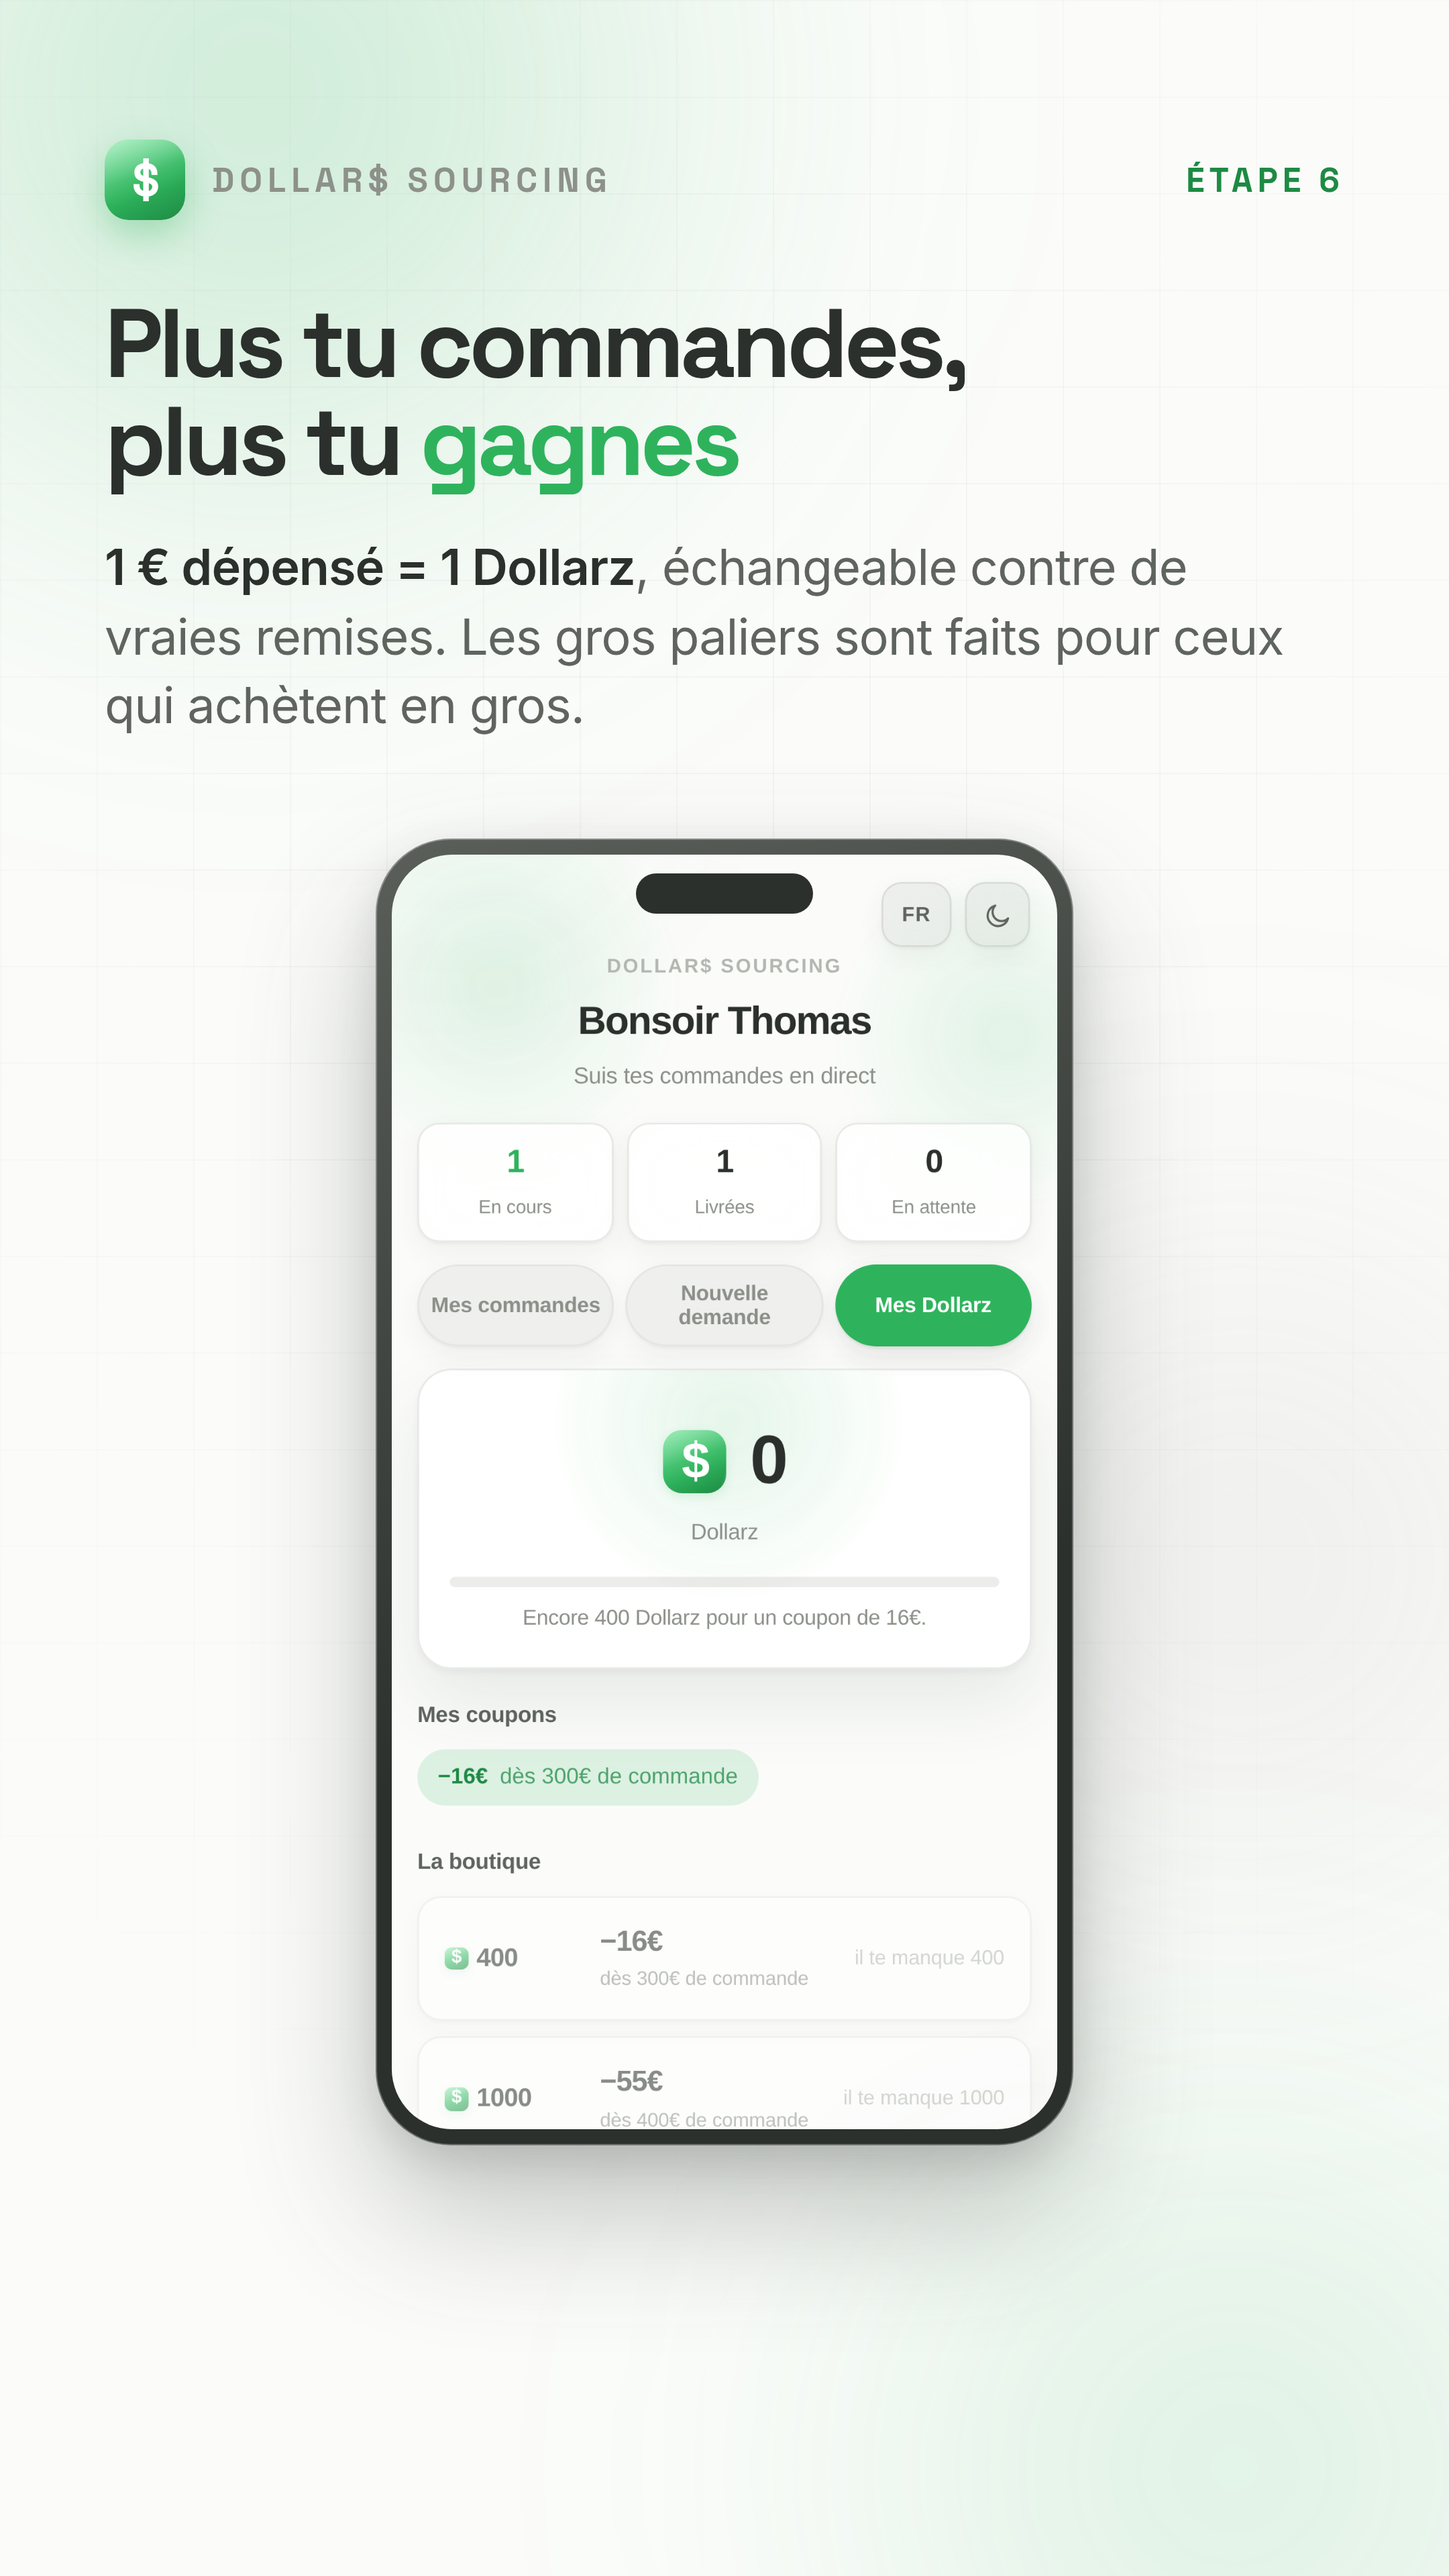
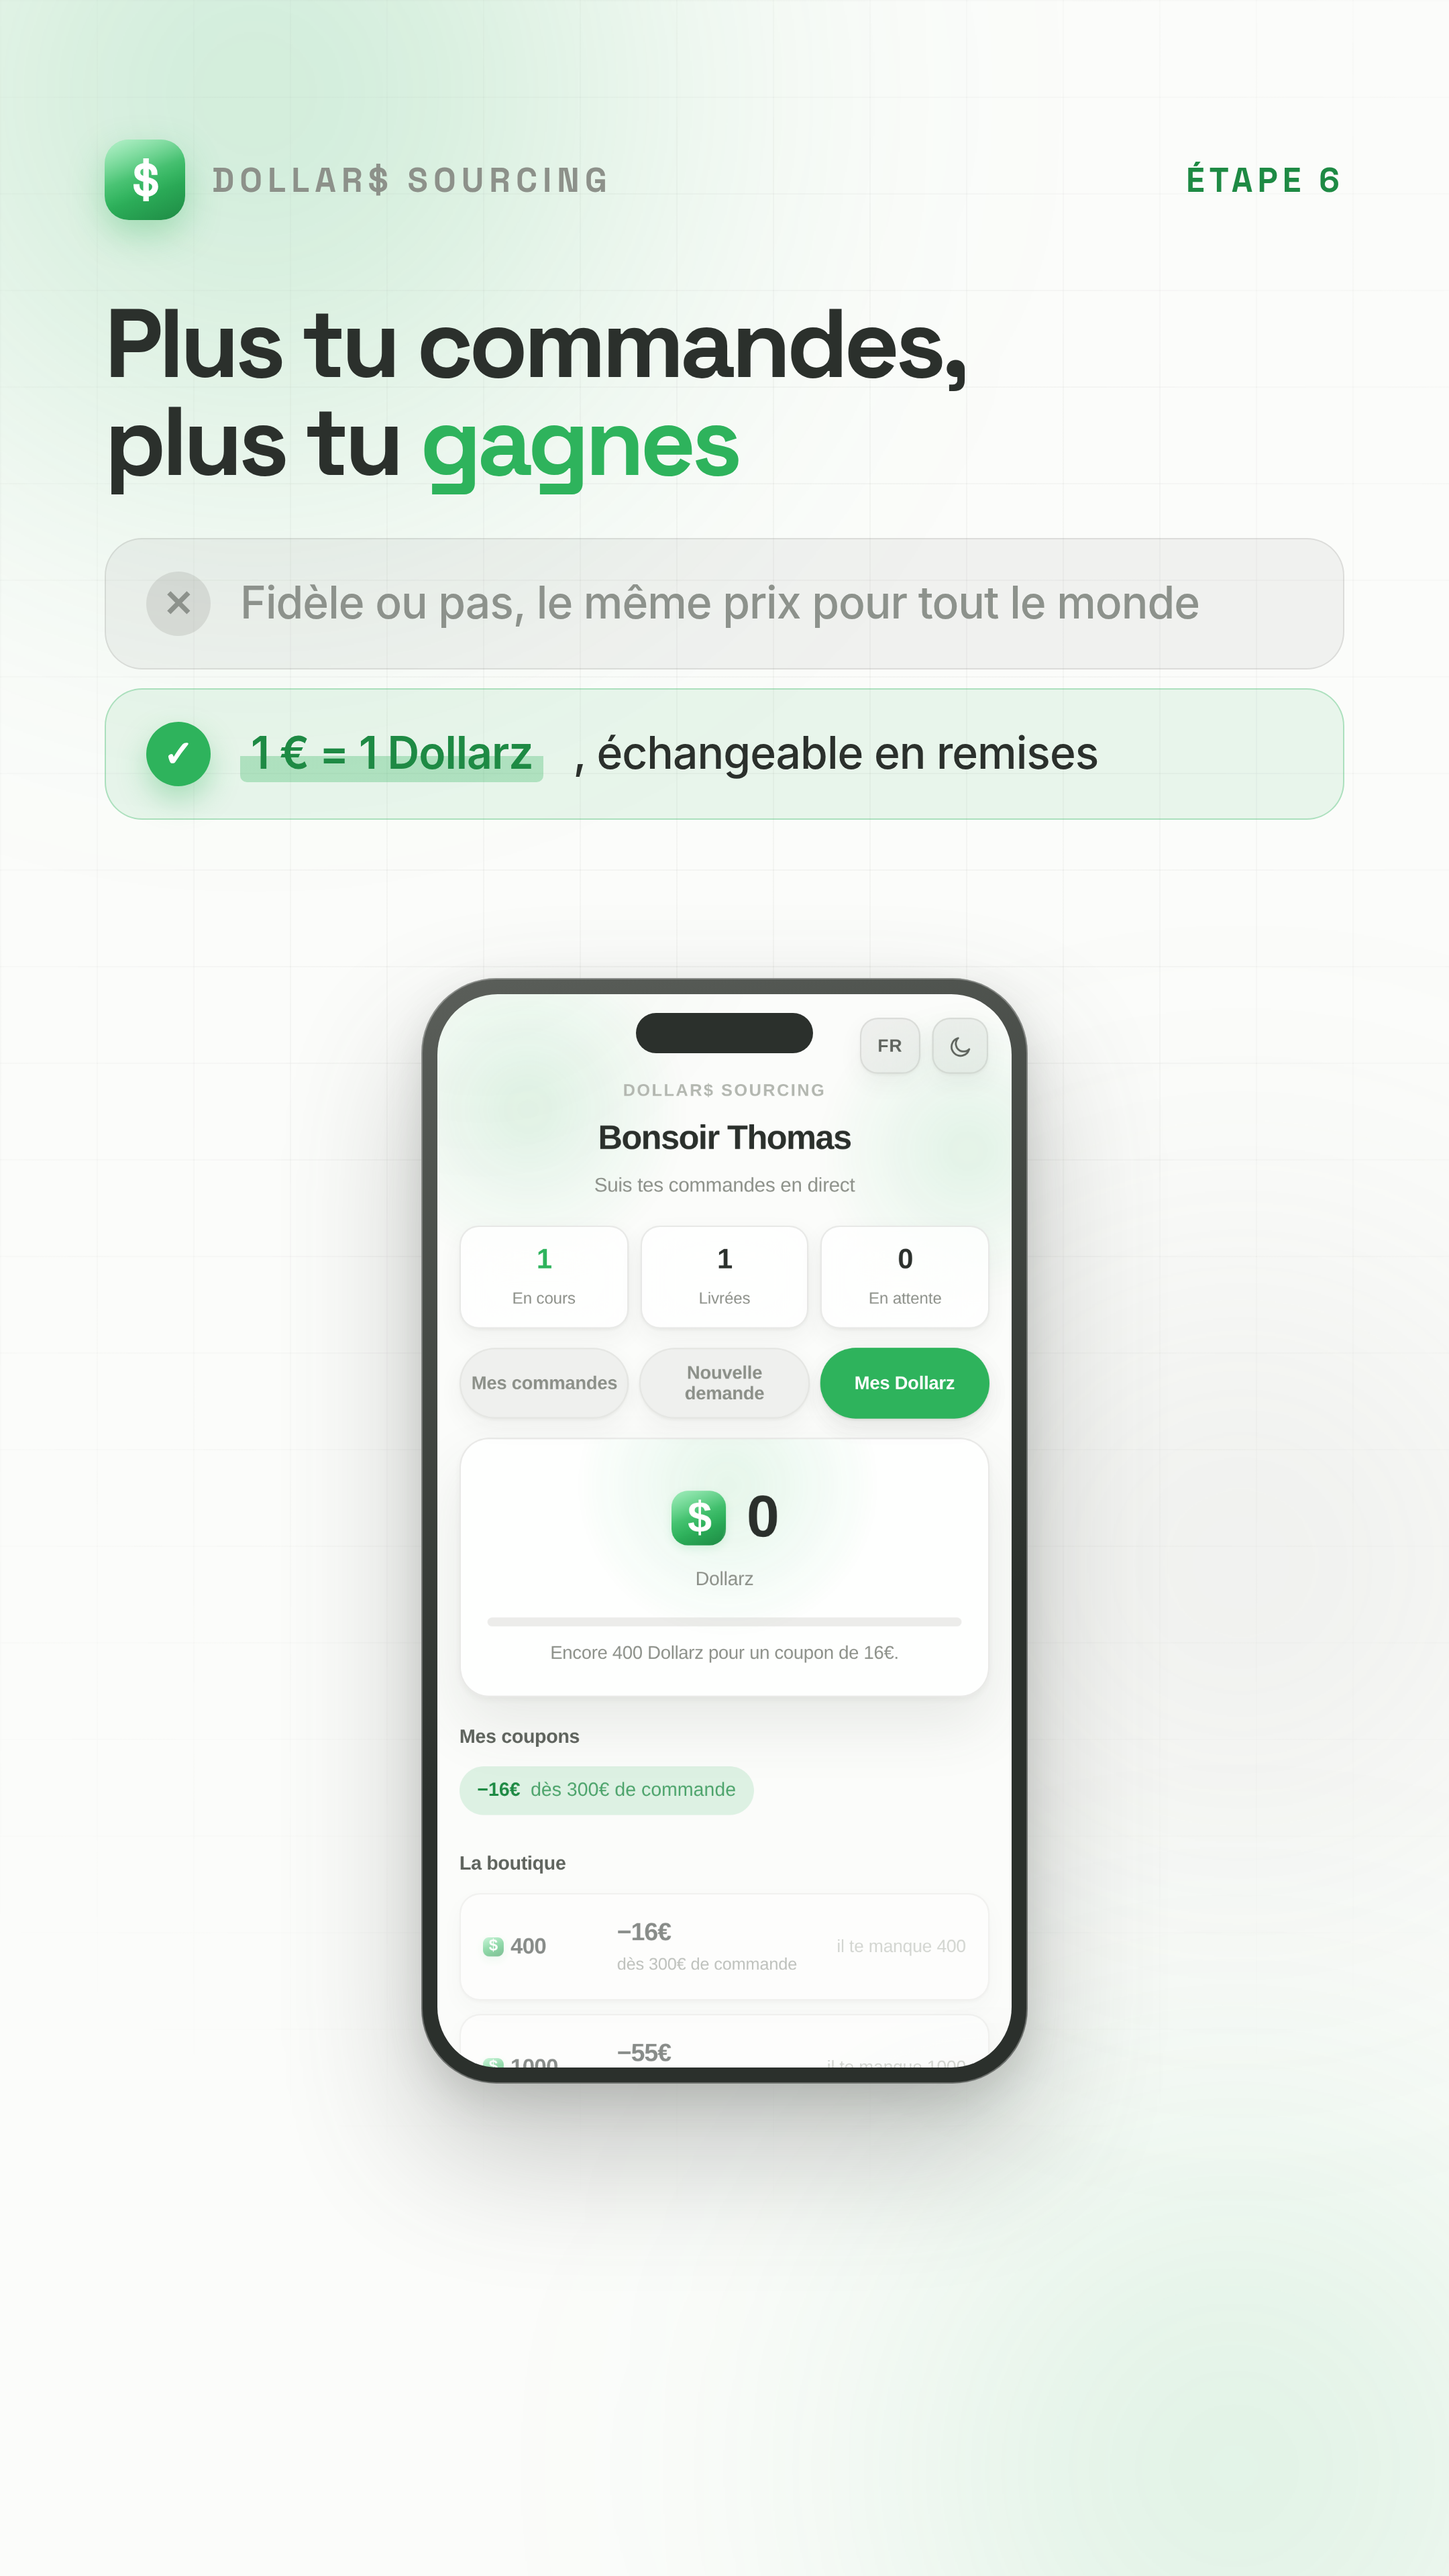
Le carrousel oppose, au lieu de décrire
Refonte des huit affiches sur une demande simple : que chaque image porte
l'avant/après, et que ce qui compte saute aux yeux.

Le paragraphe d'explication disparaît de chaque affiche, remplacé par deux
lignes opposées — sans lui (gris, croix), avec lui (vert, coche). Une
phrase de prose demande trois secondes qu'on n'a pas sur un fil social ;
deux lignes opposées se lisent en une demie.

Trois règles tiennent le module :

- Le « sans » ne porte aucun vert. Le vert est la marque : s'il apparaît
  des deux côtés, l'opposition ne dit plus rien.
- Le détail qui compte est surligné, pas seulement mis en gras. Sur un
  téléphone tenu à bout de bras, un gras ne se distingue plus d'un texte
  normal ; le fond vert au trait se voit avant d'être lu.
- Un seul gros chiffre par affiche : 580 € sur le prix, x3 sur la marge.
  Deux gros chiffres sur la même image s'annulent.

Les affiches à capture ont un téléphone d'un cran plus petit
(.phone.mid) : l'opposition prend la place du paragraphe, pas celle de ce
qui se lit. Les affiches 1 et 8 centrent leur bloc au lieu de le coller en
haut, ce qui laissait un trou au milieu. Les cartes 4 et 5 portent
maintenant le détail avant le total, sinon elles flottaient dans leur
espace.

L'affiche 9, elle, ne change pas : elle reste le post d'accroche autonome.

Claude-Session: https://claude.ai/code/session_01RowgEY4HLSTdcJJrXVSWNG

Changed region(s): [[0.062, 0.2188, 0.8375, 0.875], [0.3412, 0.5, 0.4032, 0.5312], [0.3412, 0.4375, 0.3722, 0.4688]]

diff --git a/marketing/README.md b/marketing/README.md
@@ -58,6 +58,29 @@ marqueur vaudrait dix fois cette image. Elle se regénère avec
 `node make-illustration.mjs`.
 
 
+## Chaque affiche porte l'opposition
+
+Le carrousel ne décrit plus, il oppose. Sur chacune des huit, deux lignes
+remplacent le paragraphe d'explication : ce qui se passe **sans** lui (gris,
+croix), ce qui se passe **avec** (vert, coche). Une phrase de prose demande
+trois secondes qu'on n'a pas sur un fil social ; deux lignes opposées se lisent
+en une demie.
+
+Trois règles tiennent le module :
+
+- **Le « sans » ne porte aucun vert.** Le vert est la marque : s'il apparaît des
+  deux côtés, l'opposition ne dit plus rien. Le gris nardo tient le rôle.
+- **Le détail qui compte est surligné, pas seulement mis en gras.** Sur un
+  téléphone tenu à bout de bras, un gras ne se distingue plus d'un texte normal —
+  d'où le fond vert au trait, qui se voit avant même d'être lu.
+- **Un seul chiffre par affiche, à la taille où il se lit sans lire** (`.big`) :
+  `580 €` sur le prix, `×3` sur la marge. Deux gros chiffres sur la même image
+  s'annulent.
+
+Les affiches à capture d'écran (`.phone.mid`) ont un téléphone d'un cran plus
+petit que les anciennes : l'opposition a pris la place du paragraphe, pas celle
+de ce qui se lit.
+
 ## `09-avant-apres` — un post à part, pas la neuvième du carrousel
 
 Le carrousel montre comment ça marche. Celle-ci montre **pourquoi ça change
